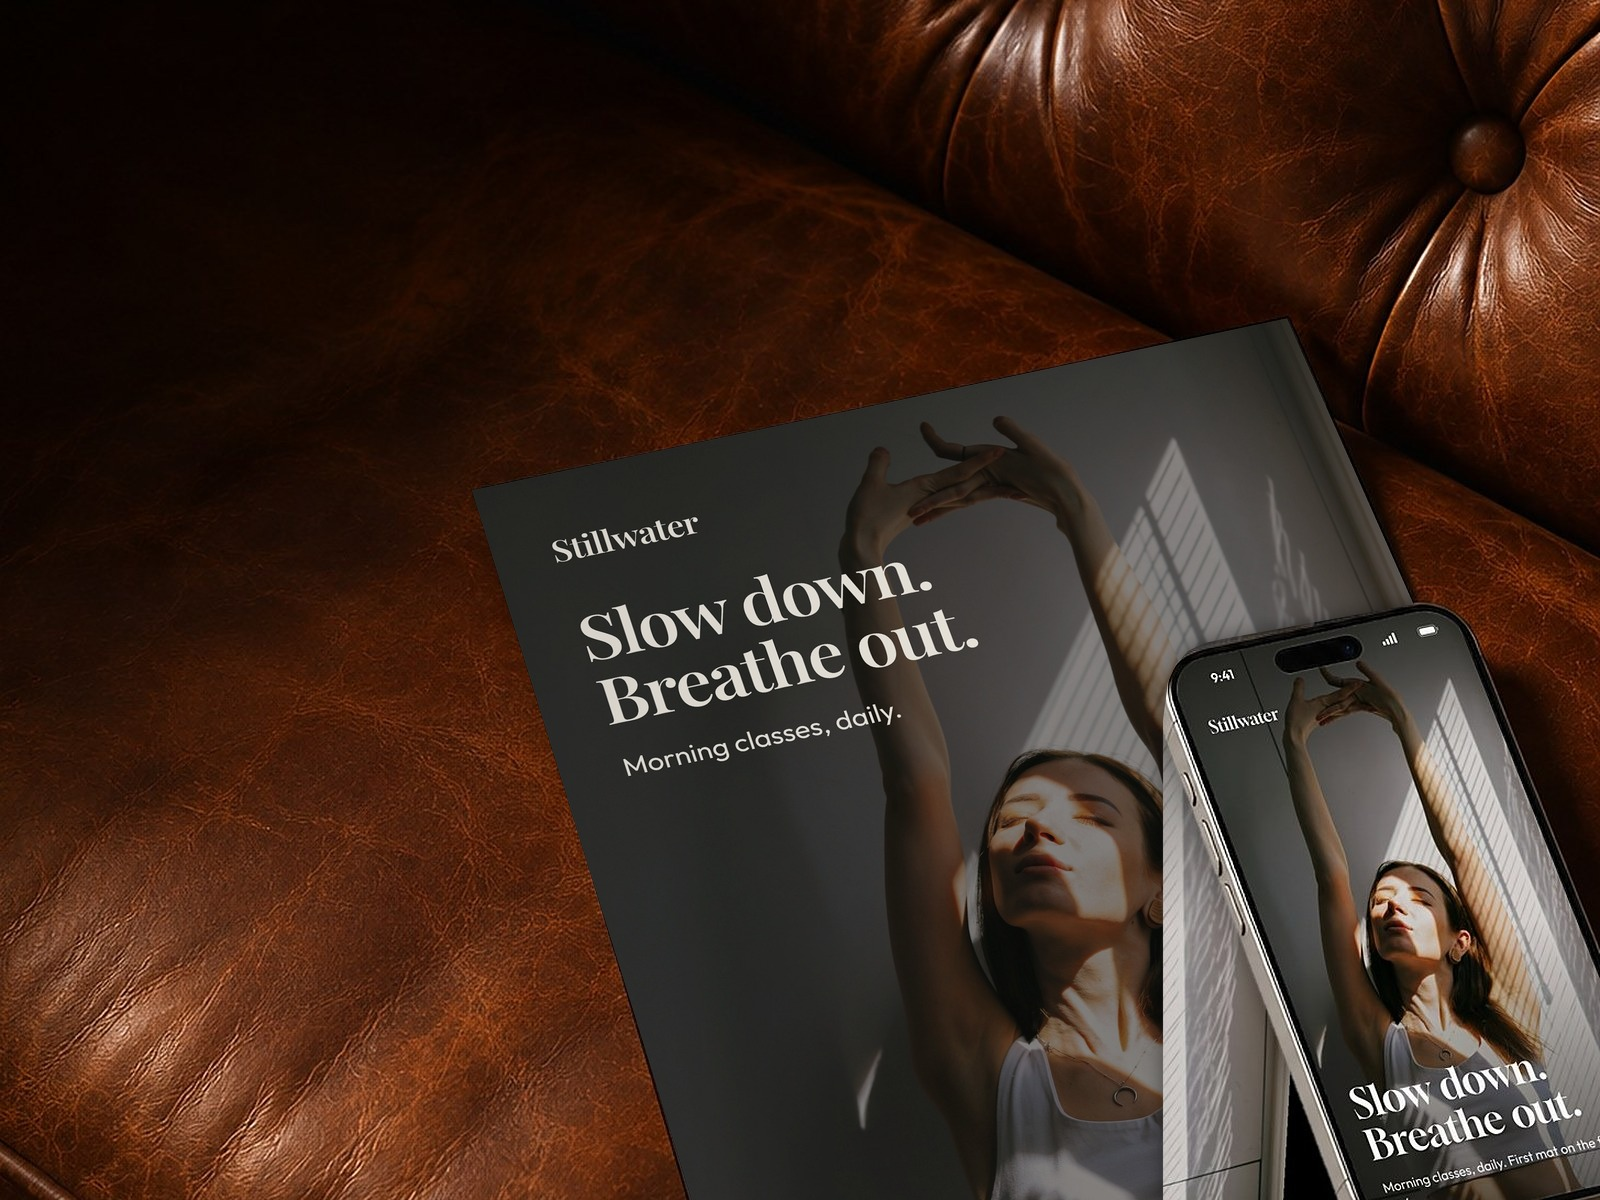
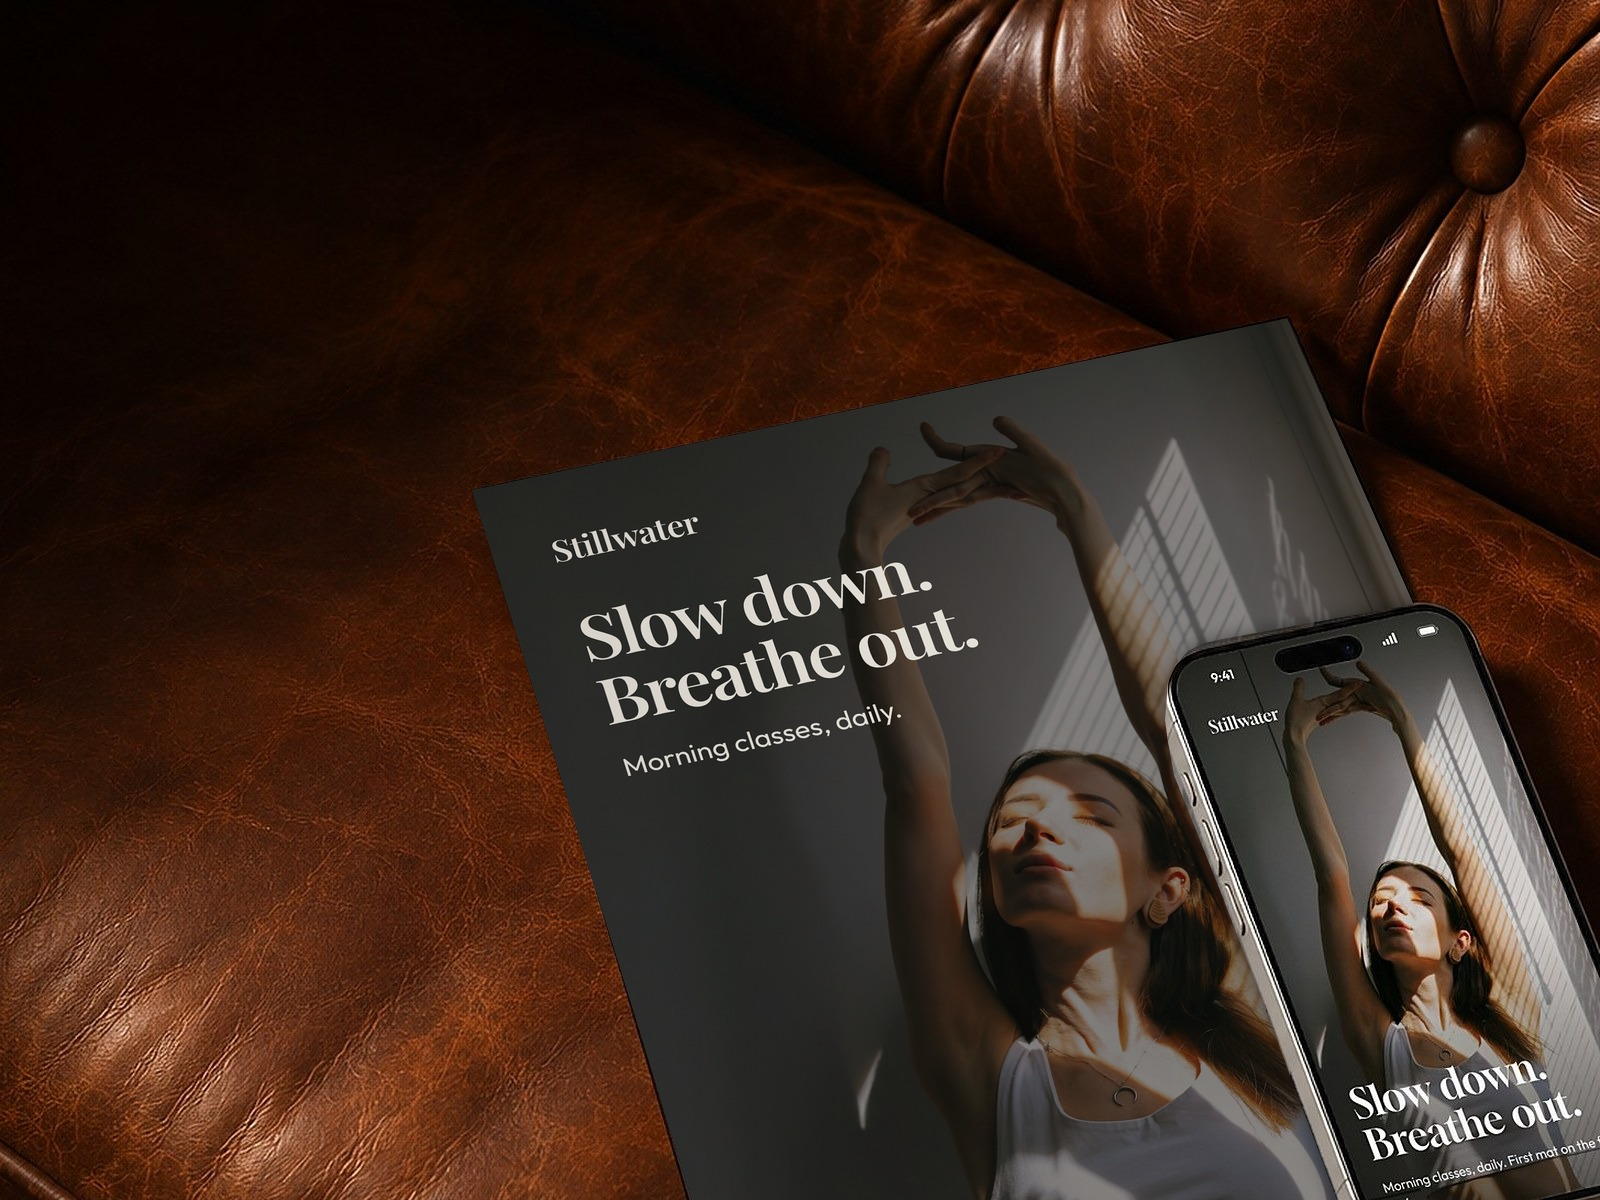
Creative Subscription home card: trace the phone's tilted edge so no old poster shows beside it
Claude-Session: https://claude.ai/code/session_011BdSE2fEeiEv9ZgoYmWAPn

Changed region(s): [[0.7188, 0.6167, 0.8438, 1.0]]

diff --git a/design/tiles/py/creative-card-fix.py b/design/tiles/py/creative-card-fix.py
@@ -12,7 +12,7 @@ def poly_mask(pts):
     m=Image.new('L',(W*S,H*S),0); ImageDraw.Draw(m).polygon([(x*S,y*S) for x,y in pts],fill=255); return m.resize((W,H),Image.LANCZOS)
 quad=poly_mask(q)
 # phone outline traced along the real bezel
-phone=[(1163,720),(1168,682),(1176,664),(1188,651),(1204,643),(1222,639),(1410,605),(1428,602.5),(1445,603),(1460,609),(1474,621),(1490,640),(1600,800),(1600,1200),(1350,1200),(1163,1200)]
+phone=[(1165,720),(1168,682),(1176,664),(1188,651),(1204,643),(1222,639),(1410,605),(1428,602.5),(1445,603),(1460,609),(1474,621),(1490,640),(1600,800),(1600,1200),(1337,1200),(1262,1000),(1220,890),(1174,775),(1168,742)]
 pm=poly_mask(phone)
 m=np.array(quad,float)/255*(1-np.array(pm,float)/255)
 a=np.array(w,float)
